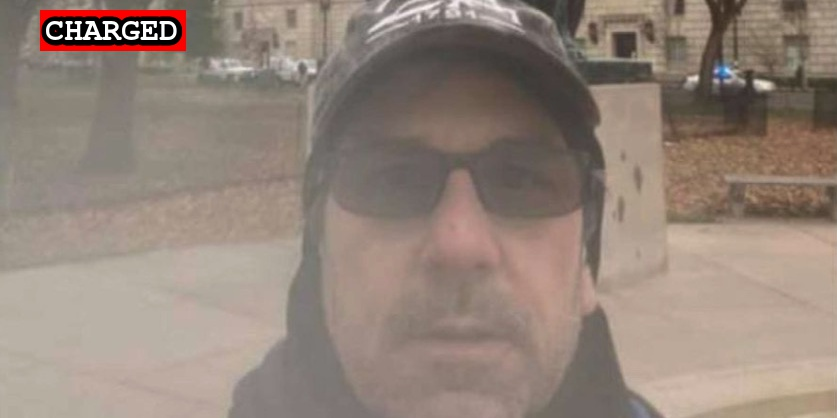
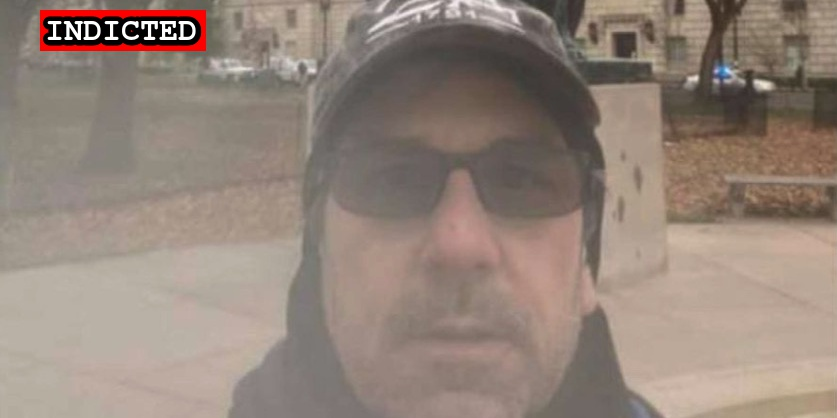
New indictments

Changed region(s): [[0.0311, 0.0, 0.2485, 0.1244]]

diff --git a/docs/_suspects/hunter-palm.md b/docs/_suspects/hunter-palm.md
@@ -3,13 +3,14 @@ name: Hunter Palm
 lastName: Palm
 aka:
 residence: Colorado
-status: Charged
+status: Indicted
 date: 2021-05-07
 charged: 2021-05-07
-indicted:
-convicted: 
-sentenced: 
-dismissed: 
+indicted: 2021-06-09
+convicted:
+sentenced:
+dismissed:
+deceased:
 age:
 occupation:
 affiliations:
@@ -21,7 +22,7 @@ courtroom:
 courthouse:
 raid:
 perpwalk:
-quote: "I think I like my new dining room. I pay for it."
+quote: 'I think I like my new dining room. I pay for it.'
 title: Hunter Palm charged on May 7, 2021
 description: Click for latest case details. Suspects innocent until proven guilty.
 author: seditiontrack
@@ -29,5 +30,7 @@ layout: suspect
 published: true
 charges:
 ---
+
 - [News Report](https://www.9news.com/article/news/crime/colorado-resident-hunter-palm-capitol-riot-charges/73-ce910300-7d95-4c50-b4a1-125303239381)
 - [Statement of Facts](https://extremism.gwu.edu/sites/g/files/zaxdzs2191/f/Hunter%20Palm%20Statement%20of%20Facts.pdf)
+- [Indictment](https://www.justice.gov/usao-dc/case-multi-defendant/file/1413576/download)

diff --git a/docs/_suspects/anthony-puma.md b/docs/_suspects/anthony-puma.md
@@ -3,13 +3,14 @@ name: Anthony Puma
 lastName: Puma
 aka:
 residence: Michigan
-status: Charged
+status: Indicted
 date: 2021-05-27
 charged: 2021-05-27
-indicted:
-convicted: 
-sentenced: 
-dismissed: 
+indicted: 2021-07-07
+convicted:
+sentenced:
+dismissed:
+deceased:
 age: 49
 occupation:
 affiliations:
@@ -29,6 +30,8 @@ layout: suspect
 published: true
 charges:
 ---
+
 - [News Report](https://www.detroitnews.com/story/news/local/michigan/2021/05/27/anthony-puma-charged-breaking-into-capitol-during-jan-6-riot/7467940002/)
 - [Complaint](https://www.justice.gov/usao-dc/case-multi-defendant/file/1399286/download)
 - [Statement of Facts](https://www.justice.gov/usao-dc/case-multi-defendant/file/1399291/download)
+- [Indictment](https://www.justice.gov/usao-dc/case-multi-defendant/file/1413341/download)

diff --git a/docs/_suspects/jennifer-parks.md b/docs/_suspects/jennifer-parks.md
@@ -8,8 +8,9 @@ date: 2021-04-15
 charged: 2021-04-15
 indicted:
 convicted: 
-sentenced: 
+sentenced:
 dismissed: 
+deceased:
 age:
 occupation:
 affiliations:
@@ -32,3 +33,4 @@ charges:
 - [News Report](https://www.msn.com/en-us/news/us/two-kansas-women-arrested-in-jan-6-capitol-riot/ar-BB1g2yEp)
 - [Complaint](https://www.justice.gov/usao-dc/case-multi-defendant/file/1389181/download)
 - [Statement of Facts](https://www.justice.gov/usao-dc/case-multi-defendant/file/1389186/download)
+- [Information](https://www.justice.gov/usao-dc/case-multi-defendant/file/1413541/download)

diff --git a/docs/_suspects/robert-petrosh.md b/docs/_suspects/robert-petrosh.md
@@ -8,8 +8,9 @@ date: 2021-04-29
 charged: 2021-04-29
 indicted:
 convicted: 
-sentenced: 
+sentenced:
 dismissed: 
+deceased:
 age: 51
 occupation:
 affiliations:
@@ -31,3 +32,4 @@ charges:
 ---
 - [News Report](https://www.nj.com/news/2021/05/grandmother-helped-tip-off-fbi-about-nj-man-charged-with-being-at-capitol-riot-feds-say.html)
 - [Statement of Facts](https://extremism.gwu.edu/sites/g/files/zaxdzs2191/f/Robert%20Petrosh%20Statement%20of%20Facts.pdf)
+- [Information](https://www.justice.gov/usao-dc/case-multi-defendant/file/1413451/download)

diff --git a/docs/_suspects/stewart-parks.md b/docs/_suspects/stewart-parks.md
@@ -8,8 +8,9 @@ date: 2021-05-24
 charged: 2021-05-24
 indicted:
 convicted: 
-sentenced: 
+sentenced:
 dismissed: 
+deceased:
 age:
 occupation:
 affiliations:
@@ -31,3 +32,4 @@ charges:
 ---
 - [News Report](https://www.wsmv.com/news/two-middle-tennessee-residents-arrested-for-role-in-us-capitol-riot/article_8f4af518-c4c0-11eb-be8e-af86539b82fc.html)
 - [Statement of Facts](https://www.justice.gov/usao-dc/case-multi-defendant/file/1401226/download)
+- [Information](https://www.justice.gov/usao-dc/case-multi-defendant/file/1413521/download)
